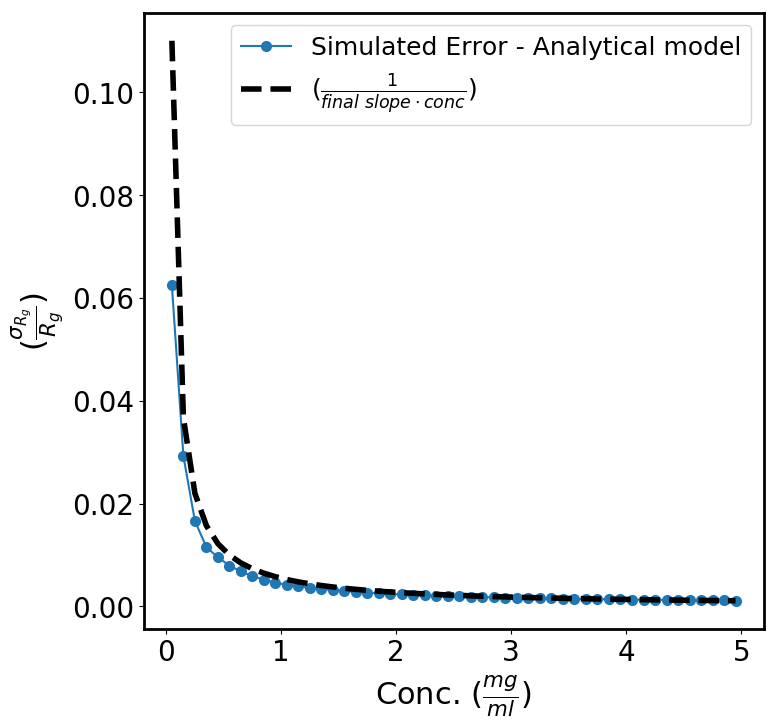
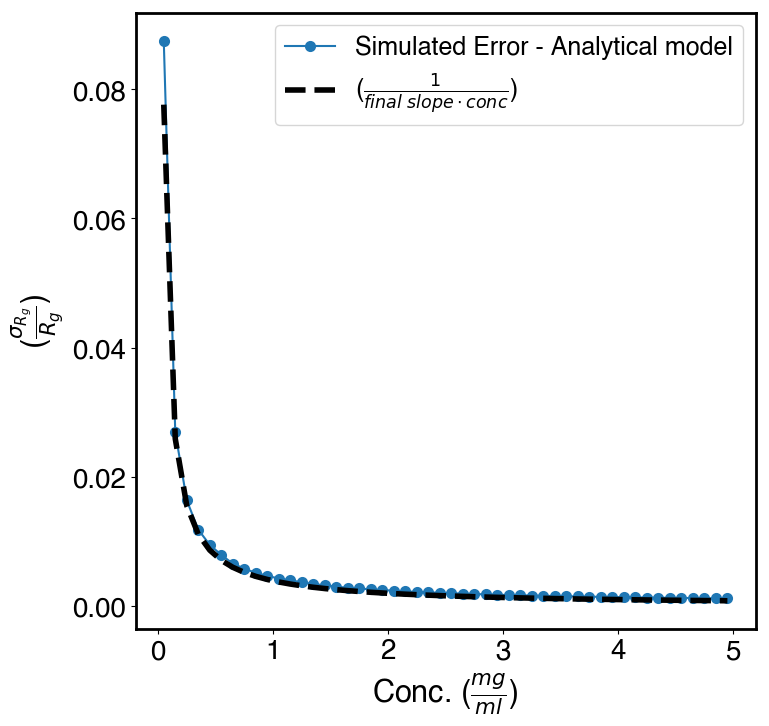
Updated my local Helvetica font in Python2.7. Plots will look nicer now.

Changed region(s): [[0.0936, 0.0, 0.9987, 1.0], [0.3121, 0.0303, 0.9675, 0.1515], [0.0, 0.3939, 0.0936, 0.4848]]

diff --git a/SAXProf_ErrCalcs.py b/SAXProf_ErrCalcs.py
@@ -5,7 +5,9 @@ class ERRORPROP:
 
     def __init__(self, saxs1 = [], I_no_noise = [], I_w_noise = [], I_no_noise_calc = [], c = []):
         """
-        Description:
+        Description: This initializes the class. It imports several important parameters, particularly from the SAXS() class.
+        This class also assumes an object has already been assigned to the SAXS() class. In this case, it is saxs1.
+
         """
         self.saxs1 = saxs1
 
